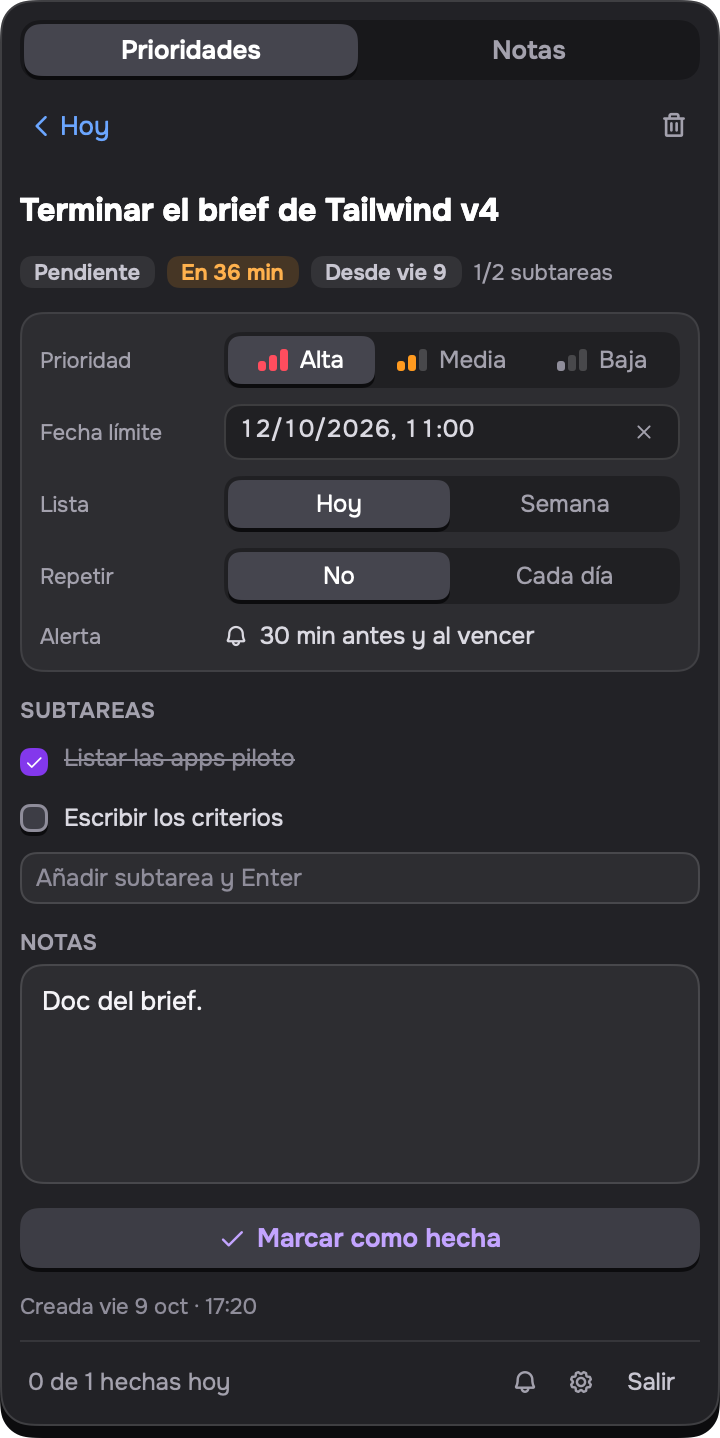
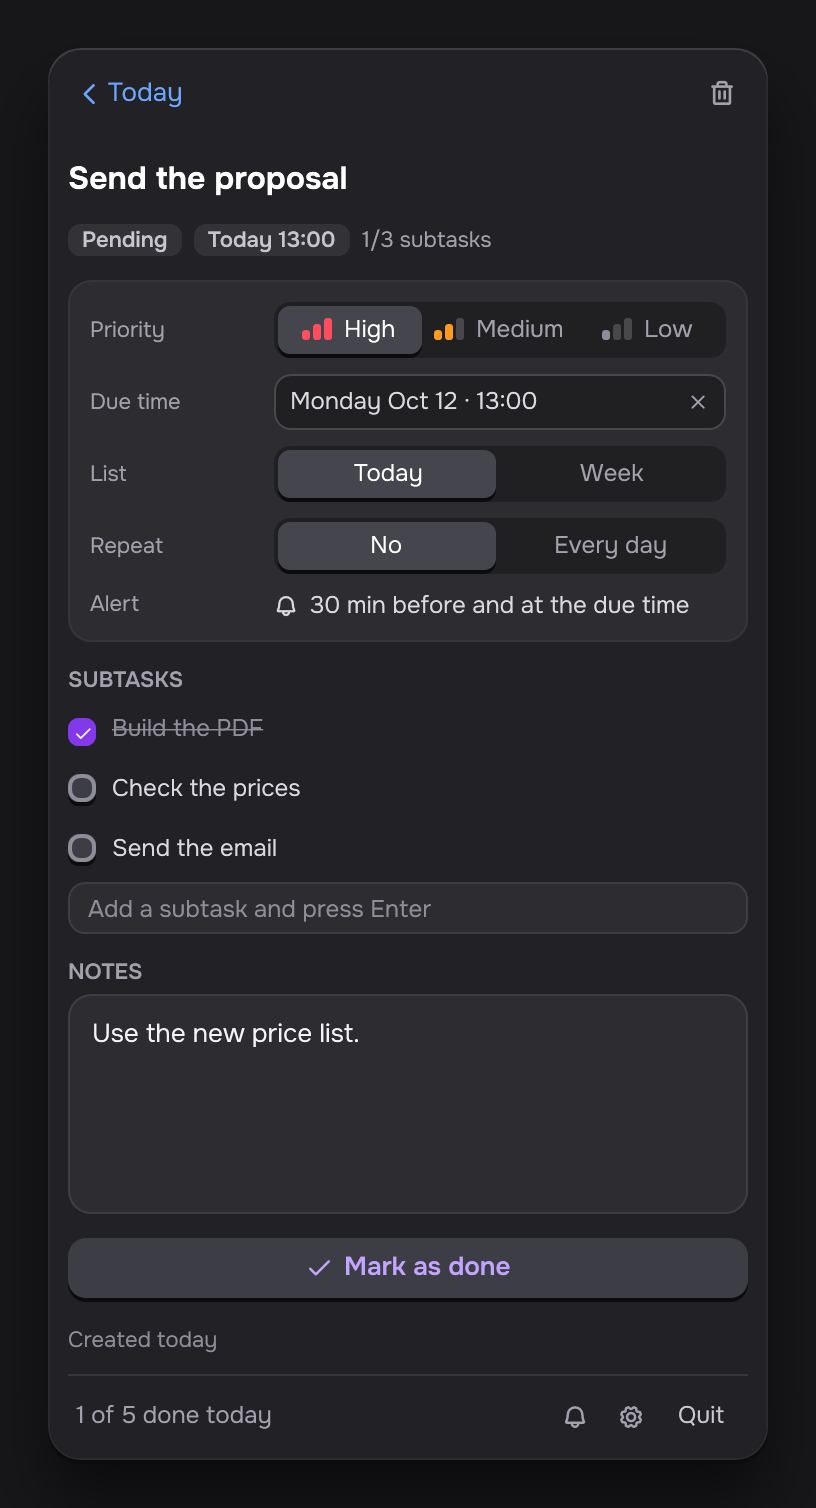
docs: rewrite the README in English and replace the screenshots
The images come from the Windows app (just readme-shots), in English.
menu-bar.png gives way to tray.png. The README now covers both apps,
the Windows download, the SmartScreen step, uninstall and build from source.

diff --git a/README.md b/README.md
@@ -2,100 +2,120 @@
 
 # Daily ZGT
 
-Daily ZGT is a macOS menu bar app that keeps the priorities and the notes of the day and the week.
+Daily ZGT keeps the priorities and the notes of the day and the week. It lives in the system tray on Windows and in the menu bar on macOS. A click on its icon opens a small dark panel.
 
-<img src="assets/readme/priorities.png" width="360" alt="The panel with the tab Prioridades (priorities) and the list Hoy (today)">
+The Windows app speaks English, Spanish and Portuguese, and it follows the Windows display language. The macOS app is Spanish only for now.
+
+<img src="assets/readme/priorities.png" width="408" alt="The panel with the tab Priorities and the list Today. Four open priorities, each with a level, a due time chip and a checkbox.">
+
+The images in this README come from the Windows app. Both apps use the same Tecla design.
 
 ## Features
 
-The text in the app is Spanish. This list shows each label in quotes, with its English meaning in parentheses.
-
-- The menu bar item shows the count of open priorities of the list "Hoy" (today). It can also show the title of the next open priority.
-- The panel has two tabs: "Prioridades" (priorities) and "Notas" (notes). Each tab has two scopes: "Hoy" and "Semana" (this week).
-- A priority has a level (high, medium or low), an optional due date and time, subtasks and a note.
-- The checkbox asks before it marks a priority done. Then the button "Deshacer" (undo) shows for 5 seconds. Click it to bring the priority back.
-- The section "Hechas" (done) shows the priorities that you marked done in the last 24 hours. "Historial" (history) shows the older ones.
-- A setting limits "Hoy" to 5 open priorities.
+- The tray icon shows the count of open priorities in Today. A setting adds the title of the next open priority.
+- The panel has two tabs, Priorities and Notes. Each tab has two scopes, Today and Week.
+- A priority has a level (high, medium or low), an optional due date and time, subtasks, and a note.
+- The checkbox asks before it marks a priority done. Then an Undo button shows for 5 seconds.
+- The section Completed shows the priorities that you marked done in the last 24 hours. History shows the older ones.
+- A setting limits Today to 5 open priorities.
 - A priority can repeat each day.
-- The chip "De ayer" (from yesterday) shows on an open priority that stays in "Hoy" after the day changes.
-- An alert with sound comes 30 minutes before the due time and at the due time. Its action "Posponer 15 min" (snooze 15 minutes) sets a new alert in 15 minutes.
-- The shortcut ⌃⌥⌘P opens a capture window from any app.
-- A setting starts the app when you log in.
-- The app keeps all data in one SQLite file on your Mac. It has no account and it does not use the network.
+- The chip "From yesterday" shows on an open priority that stays in Today after the day changes.
+- An alert comes 30 minutes before the due time and at the due time. Its action "Snooze 15 min" sets a new alert in 15 minutes.
+- A global shortcut opens a capture window from any app. It is Ctrl+Alt+Shift+P on Windows and Control+Option+Command+P on macOS.
+- A setting starts the app when you sign in.
+- All data stays in one SQLite file on your computer. The app has no account and it does not use the network.
 
 ## Screens
 
-### The menu bar item
-
-The count of open priorities of Hoy and the title of the next one.
-
-<img src="assets/readme/menu-bar.png" width="128" alt="The menu bar item with the count 4 and the title Pagar la luz">
-
 ### The detail view of a priority
 
-The level, the due date, the list, the repeat, the subtasks and the note.
+The level, the due time, the list, the repeat, the alert, the subtasks and the note.
 
-<img src="assets/readme/detail.png" width="360" alt="The detail view of a priority with two subtasks and a note">
+<img src="assets/readme/detail.png" width="408" alt="The detail view of the priority Send the proposal, with its level, due time, three subtasks (one done) and a note.">
 
 ### Notes
 
 One note for each day and one note for each week.
 
-<img src="assets/readme/notes.png" width="360" alt="The tab Notas (notes) with the note of the day">
+<img src="assets/readme/notes.png" width="408" alt="The tab Notes with the note of the day: Call Marta before 5.">
 
 ### The capture window
 
-Press ⌃⌥⌘P, type the title and press Enter.
+Press the global shortcut, type a title and press Enter. The priority goes to Today.
 
-<img src="assets/readme/capture.png" width="408" alt="The capture window with the title of a new priority">
+<img src="assets/readme/capture.png" width="408" alt="The capture window with a title typed in the field: Reply to Marta's email.">
 
 ### Settings
 
-Start at login, the limit of 5, the title in the menu bar and the global shortcut.
+Open at login, the limit of 5 open priorities in Today, the title of the next priority, and the global shortcut.
 
-<img src="assets/readme/settings.png" width="360" alt="The settings view with three switches and the shortcut field">
+<img src="assets/readme/settings.png" width="408" alt="The settings view with three switches and the global shortcut field.">
 
-## Install
+### The tray icon
+
+The badge is the count of open priorities in Today. The tooltip shows the count and the title of the next priority. On macOS the menu bar item shows the same two values.
+
+<img src="assets/readme/tray.png" width="240" alt="The tray icon with the badge 4, and its tooltip: Daily ZGT · 4, Review the Lima contract.">
+
+## Download
+
+### Windows
+
+You need 64-bit Windows 10 (build 19041) or later. You do not need to install .NET.
+
+1. Open the [Releases page](https://github.com/giancarlosisasi/daily-zgt/releases).
+2. Find the newest release whose tag starts with `windows-v`. The first release is [windows-v0.1.0](https://github.com/giancarlosisasi/daily-zgt/releases/tag/windows-v0.1.0).
+3. Download `DailyZGT.Windows-win-Setup.exe` from its assets and run it.
+
+The installer is for your user only and needs no admin rights. When it finishes, Daily ZGT opens and a `Daily ZGT` shortcut appears in the Start menu.
+
+The installer is not code-signed yet. Windows SmartScreen shows "Windows protected your PC". Click **More info**, then **Run anyway**.
+
+To uninstall, open Settings, Apps, Installed apps, find Daily ZGT and choose Uninstall. The uninstaller removes the app, the Start menu shortcut and the login entry. It keeps your data. The file `%LOCALAPPDATA%\DailyZGT\daily-zgt.sqlite` stays on your computer. Delete its folder if you want the data gone.
+
+The app does not check for updates yet. To update, uninstall it and run the newer `Setup.exe`. Your data stays.
+
+### macOS
+
+There is no download for macOS yet. Build the app from source. See the next section.
+
+## Build from source
+
+The repository has a `justfile`. Install [`just`](https://github.com/casey/just) and run `just` to list every task.
+
+### Windows app
+
+You need Windows 10 (build 19041) or later, the .NET 10 SDK and Python 3.
+
+```bash
+just win-check
+just win-run
+```
+
+`just win-check` checks the design tokens, builds, and runs the tests. `just win-run` starts the app with the panel open. `just win-pack` packs the installer. See [`apps/windows/README.md`](apps/windows/README.md) for the flags, the environment variables and the release steps.
+
+### macOS app
 
 You need macOS 14 or later, Xcode 26 and XcodeGen (`brew install xcodegen`).
 
 ```bash
-./apps/macos/scripts/install.sh
+just mac-test
+just mac-install
 open /Applications/DailyZGT.app
 ```
 
-The script generates the Xcode project, builds the Release configuration and copies the app to `/Applications/DailyZGT.app`. If the app runs from `/Applications`, quit it before you run the script.
+`just mac-test` generates the Xcode project and runs the tests. `just mac-install` builds the Release configuration and copies the app to `/Applications/DailyZGT.app`. If the app runs from `/Applications`, quit it before you run `just mac-install`. The app has no Dock icon. Click the target icon in the menu bar to open the panel.
 
-The app has no Dock icon. Click the target icon in the menu bar to open the panel.
-
-## Develop
-
-The macOS app lives in `apps/macos/`. Run the commands below from that folder.
-
-Generate the Xcode project. Run this command again after each change to `project.yml`.
+### Website
 
 ```bash
-cd apps/macos
-xcodegen generate
+just web-install
+just web-dev
 ```
 
-Build the app.
+### README images
 
-```bash
-xcodebuild -project DailyZGT.xcodeproj -scheme DailyZGT -destination 'platform=macOS' -derivedDataPath build build
-```
-
-Run the tests.
-
-```bash
-xcodebuild -project DailyZGT.xcodeproj -scheme DailyZGT -destination 'platform=macOS' -derivedDataPath build test
-```
-
-The folder `apps/website/` holds the site: a landing page and the Guide, in English, Spanish and Portuguese.
-
-```bash
-cd apps/website && pnpm install && pnpm dev
-```
+`just readme-shots` rebuilds the images in `assets/readme` from the Windows app. It draws each screen offscreen in English. It does not capture your screen.
 
 ## Repository layout
 
@@ -103,16 +123,12 @@ The repository is a monorepo. Each app uses its own native build tool.
 
 | Folder | Content |
 | --- | --- |
-| `apps/macos/` | The macOS app (Swift, SwiftUI, XcodeGen) |
-| `apps/windows/` | The Windows app (C#). Not built yet. |
-| `apps/website/` | The site (Rspress) |
-| `packages/design-tokens/` | `tecla.json`, the one source of the colors, sizes and motion of all apps |
+| `apps/macos/` | The macOS app (Swift, SwiftUI, GRDB, XcodeGen) |
+| `apps/windows/` | The Windows app (C# on .NET 10, WPF, Microsoft.Data.Sqlite) |
+| `apps/website/` | The docs and landing site (Rspress), in English, Spanish and Portuguese |
+| `packages/design-tokens/` | `tecla.json`, the one source of the colors, sizes and motion of both apps |
 
-The `justfile` at the root runs the common tasks. Run `just` to list them, for example `just mac-test` or `just web-dev`.
-
-## Stack
-
-Swift 6, SwiftUI, GRDB (SQLite), KeyboardShortcuts and XcodeGen. The site uses Rspress.
+Both apps use the same SQLite schema.
 
 ## License
 
